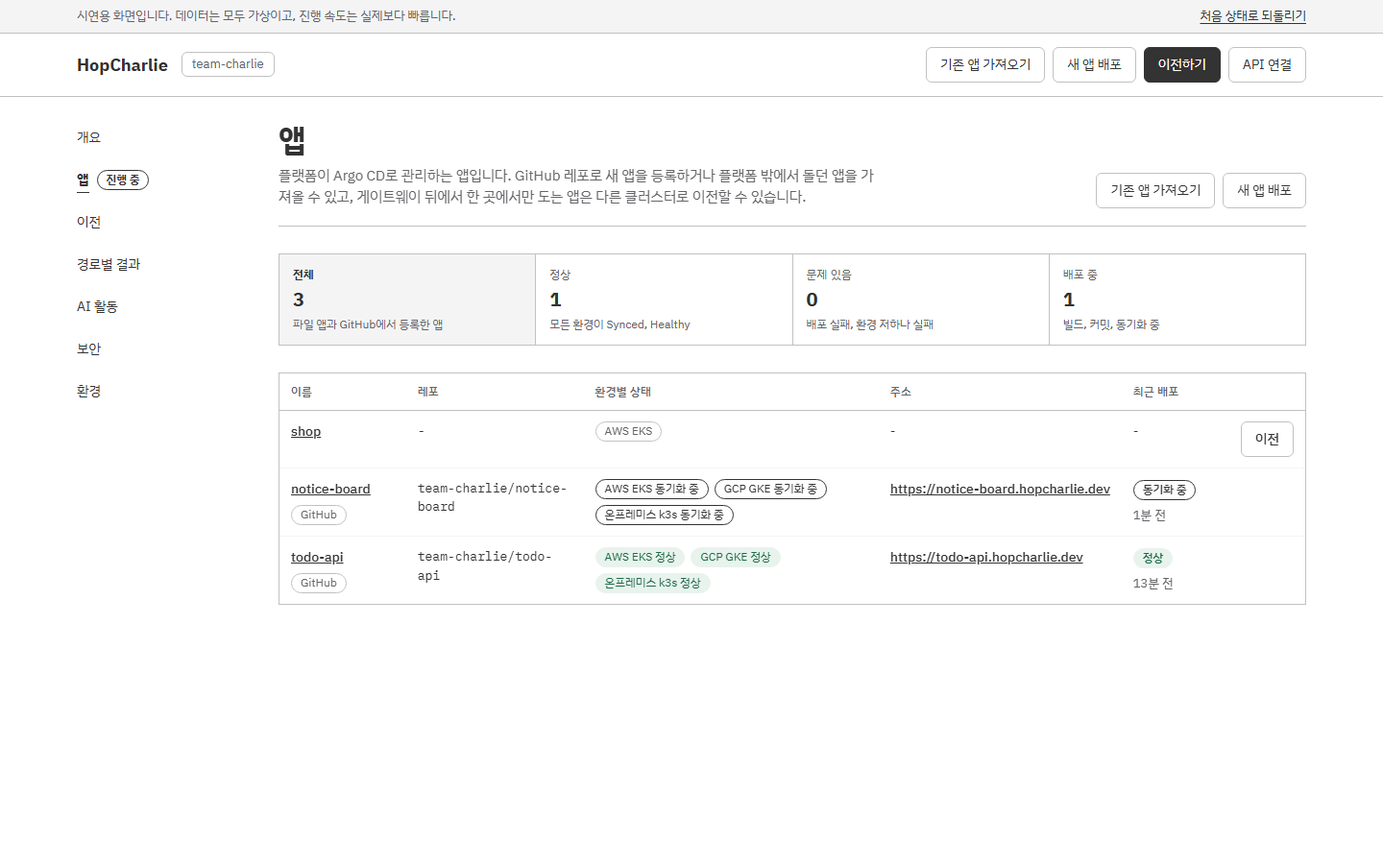
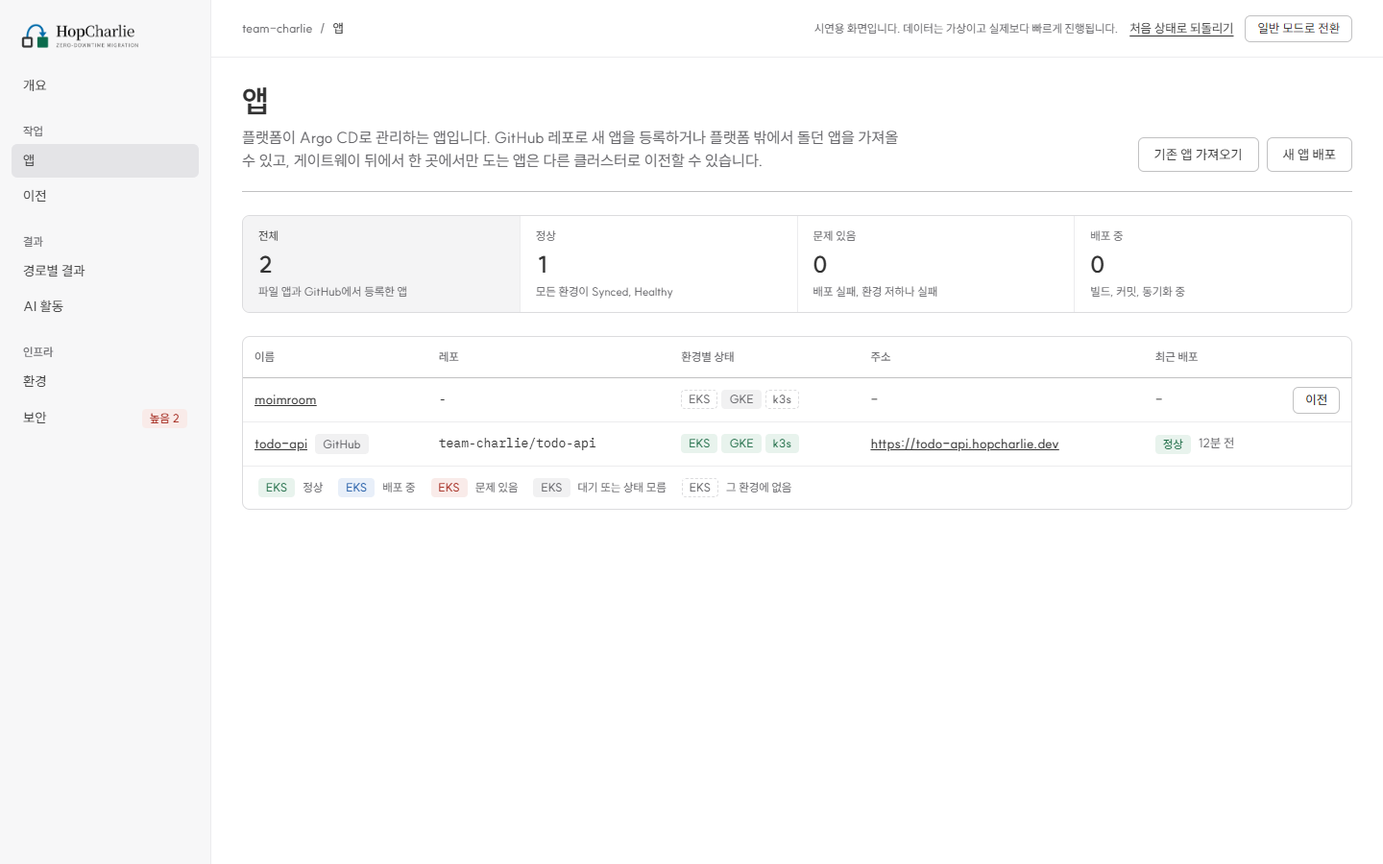
docs: README 화면 설명과 스크린샷을 개편한 콘솔로 갱신
- docs/screenshots의 22장을 지금 화면(데모 모드, 1440px, 전체 페이지)으로 다시 찍었다. app-shop.png는 app-moimroom.png로 이름을 바꿨다.
- README 앱 표가 v5 히스토리 이미지 4장(docs/history/pr6)을 쓰던 자리를 지금 화면으로 찍은 4장(new-app-rule-violation, new-app-no-platform-yaml, deploy-in-progress, apps-problem)으로 바꿨다.
- 화면 설명: 화면 구성(묶음 사이드 메뉴, 메뉴 배지, 위쪽 막대, 상태 색, 화면 너비)을 더하고, 개요의 지금 볼 것과 경로 격자, 이전 화면의 상태 카드와 진행 막대, 끝난 이전의 리포트, 기록 탭, 승인 화면 배치, 앱 상세 탭과 버튼으로 여는 폼을 지금 화면에 맞췄다.
- 맨 위 디자인 줄에 SUIT, IBM Plex Mono와 상태 색 규칙을 적었다.

Claude-Session: https://claude.ai/code/session_014QYzJihMxQwQggRBsrbjFt

diff --git a/README.md b/README.md
@@ -3,7 +3,8 @@
 HopCharlie 운영 콘솔입니다. 처음 열면 모드를 고릅니다. **일반 모드**는 관리자 아이디와 비밀번호로 로그인해 **실제 플랫폼 API**(`src/api`)를 읽고, **데모 모드**는 로그인 없이 **시연용 시뮬레이션**으로 같은 화면을 보여 줍니다. 모드는 화면 위쪽 버튼으로 언제든 바꿀 수 있고, 바꿔도 로그아웃되지 않습니다. 로그인은 새로고침하거나 새 탭을 열어도 세션이 끝날 때(12시간)까지 유지됩니다. `charlie login`이 보여 준 코드는 일반 모드의 **CLI 연결**(`#device`)에서 승인합니다. 시뮬레이션도 플랫폼 계약과 같은 데이터 모양(`PlanRecord`, `Run`, `RunEvent`, `AgentSession`, `AgentEvent`, `App`, `Deployment`, `DeploymentEvent`, `AppSpecValidation`)을 만듭니다.
 
 - 스택: Vite 8 + React 19 + TypeScript, 테스트는 Vitest + Testing Library
-- 디자인: SoftBank 디자인 시스템 토큰 (`src/styles/tokens.css`)
+- 디자인: SoftBank 디자인 시스템 토큰 (`src/styles/tokens.css`). 본문 글꼴은 SUIT, 코드와 ID는 IBM Plex Mono입니다.
+- 상태 색: 파랑(run)은 기계가 일하는 중, 주황(warn)은 사람이 해야 할 일, 회색은 기다림, 초록은 성공, 빨강은 실패입니다.
 
 ```bash
 npm install
@@ -43,20 +44,28 @@ npm run build      # 타입 검사 + 프로덕션 빌드
 ### 모드 선택, 로그인, CLI 연결
 처음 열면 전체 화면으로 모드를 고릅니다.
 
-- **데모 모드**: 가상 데이터로 시연합니다. 로그인하지 않습니다. 상단 배너의 "처음 상태로 되돌리기"로 시뮬레이션을 처음 상태로 돌립니다.
+- **데모 모드**: 가상 데이터로 시연합니다. 로그인하지 않습니다. 위쪽 막대의 "처음 상태로 되돌리기"로 시뮬레이션을 처음 상태로 돌립니다.
 - **일반 모드**: 실제 플랫폼 API를 읽습니다. 로그인 화면에서 관리자 아이디와 비밀번호(플랫폼 서버의 `PLATFORM_ADMINS`)를 넣습니다. 틀린 아이디나 비밀번호, 너무 잦은 시도(기다릴 초를 함께 표시), 관리자가 설정되지 않은 서버, 연결 실패를 각각 한국어로 알려 줍니다. 로그인 화면에서 데모 모드로 바로 갈 수도 있습니다.
-- **헤더**: 일반 모드에서는 로그인한 관리자 이름, "로그아웃", "데모 모드로 전환"이 있고, 데모 모드에서는 "일반 모드로 전환"이 있습니다. 모드를 바꿔도 로그아웃되지 않습니다.
-- **CLI 연결**(`#device`, 일반 모드에서만 메뉴에 보임): 터미널에서 `charlie login`을 실행하면 나오는 코드(XXXX-XXXX, 소문자나 공백을 섞어 넣어도 됨)를 입력하고 "확인"을 누르면 요청한 클라이언트, 요청 시각, 남은 시간이 나옵니다. 승인하기 전에 그 CLI에 줄 역할을 고릅니다. 기본으로 골라 둔 역할은 없고, 고르기 전에는 "승인"을 누를 수 없습니다.
+- **위쪽 막대**: 일반 모드에서는 연결한 API 주소, 로그인한 관리자 이름, "로그아웃", "데모 모드로 전환"이 있고, 데모 모드에서는 시연용 화면이라는 안내, "처음 상태로 되돌리기", "일반 모드로 전환"이 있습니다. 모드를 바꿔도 로그아웃되지 않습니다.
+- **CLI 연결**(`#device`, 일반 모드에서만 사이드 메뉴의 설정 묶음에 보임): 터미널에서 `charlie login`을 실행하면 나오는 코드(XXXX-XXXX, 소문자나 공백을 섞어 넣어도 됨)를 입력하고 "확인"을 누르면 요청한 클라이언트, 요청 시각, 남은 시간이 나옵니다. 승인하기 전에 그 CLI에 줄 역할을 고릅니다. 기본으로 골라 둔 역할은 없고, 고르기 전에는 "승인"을 누를 수 없습니다.
   - 관리자(operator): 배포, 앱 등록과 삭제, Plan 승인까지 모두
   - 조회와 Plan 제출(agent): 승인과 배포는 못 함
   - 조회만(viewer)
 
   봇(Rin 등)에게는 꼭 필요한 역할만 주고, 배포를 맡길 때만 관리자를 고릅니다. "승인"하면 그 CLI가 30일 동안 내 이름과 고른 역할로 동작하고, 결과에 준 역할을 보여 줍니다. "거절"하면 그 CLI 로그인은 끝납니다. 없거나 만료된 코드, 이미 승인하거나 거절한 요청(검토한 사람과, 승인이면 준 역할도 표시), CLI 토큰처럼 비밀번호로 로그인하지 않은 세션은 따로 알려 줍니다. 승인은 콘솔에 비밀번호로 로그인한 세션만 할 수 있어서 CLI 토큰으로 다른 토큰을 만들 수 없습니다. 로그인하지 않은 채 `#device`를 열면 로그인 화면이 먼저 나오고, 로그인하면 일반 모드로 이 화면에 돌아옵니다.
 
+### 화면 구성
+- **사이드 메뉴**: 왼쪽 회색 세로 메뉴입니다. 개요 아래에 작업(앱, 이전), 결과(경로별 결과, AI 활동), 인프라(환경, 보안) 묶음이 있고, 일반 모드에서는 설정(CLI 연결) 묶음이 더해집니다. 새 앱 배포, 기존 앱 가져오기, 앱 상세, 배포 진행은 앱 메뉴 아래 화면입니다.
+- **메뉴 배지**: 데모 모드에서는 메뉴에 지금 상태를 붙입니다. 배포나 가져오기가 진행 중이면 앱에 "진행 중", 이전이 진행 중이면 이전에 그 단계(예: 동기화 중, 전환 승인 대기), 보안에 높음 이상 건수가 나옵니다. 일반 모드는 API 호출을 늘리지 않으려고 배지를 두지 않습니다.
+- **위쪽 막대**: 왼쪽에 지금 위치(`team-charlie / 메뉴 이름`)가 있습니다. 앱 상세, 배포 진행, 이전 화면에서는 메뉴 이름을 눌러 그 메뉴로 돌아갑니다. 오른쪽에는 모드 안내와 계정이 있습니다.
+- **작업 버튼**: 화면 머리에 둡니다. 개요에는 "새 앱 배포"와 "이전하기", 앱 목록에는 "기존 앱 가져오기"와 "새 앱 배포"가 있습니다.
+- **상태 색**: 파랑은 기계가 일하는 중, 주황은 사람이 해야 할 일, 회색은 기다림, 초록은 성공, 빨강은 실패입니다. 칩, 메뉴 배지, 이전 화면의 상태 카드와 진행 막대가 같은 규칙을 따릅니다.
+- **화면 너비**: 900px보다 좁으면 사이드 메뉴가 위쪽 가로 메뉴로 바뀝니다. 넓은 화면에서는 위쪽 막대와 본문을 같은 가운데 열에 맞춥니다.
+
 아래는 데모 모드(시연용 시뮬레이션) 화면입니다. 숫자와 로그는 모두 가상입니다. (1440px 너비, 전체 페이지)
 
 ### 개요
-클러스터 3개의 상태, 6개 경로 결과표, 앱, 최근 활동을 한 화면에서 봅니다.
+맨 위 **지금 볼 것**은 사람을 기다리는 일, 문제, 진행 중인 일, 최근 24시간 안에 끝난 이전을 이 순서로 모으고, 항목마다 그 화면으로 가는 버튼을 둡니다. 그 아래에 클러스터 3개의 상태, 경로별 결과, 최근 활동, 앱 표가 있습니다. 경로별 결과는 원본(행)과 대상(열)의 3×3 격자이고, 일반 모드에서는 진행 중인 run도 그 칸에 보여 줍니다. 결과가 하나도 없으면 격자 대신 한 줄 안내가 나옵니다. 앱 표의 환경별 상태는 EKS, GKE, k3s 칩 3개로 보여 줍니다. 아래 화면은 가져오기와 이전을 한 번 마친 뒤입니다.
 
 ![개요](docs/screenshots/overview.png)
 
@@ -70,17 +79,17 @@ npm run build      # 타입 검사 + 프로덕션 빌드
 | ![샌드박스 테스트](docs/screenshots/onboard-3-sandbox.png) | ![첫 배포](docs/screenshots/onboard-4-done.png) |
 
 ### 이전
-> 아래 스크린샷은 데모 모드의 샘플 앱을 moimroom으로 바꾸기 전에 찍어서 이전 대상이 shop으로 나옵니다.
-
-**설정:** 원본은 앱이 지금 쓰기를 받는 클러스터이고, 옮겨 갈 클러스터를 고릅니다.
+**설정:** 원본은 앱이 지금 쓰기를 받는 클러스터이고, 옮겨 갈 클러스터를 고릅니다. 오른쪽에 진행 순서(AI 계획, 리허설, 승인, 시작 전 검사, 실행)가 있고, 단계별 자세한 설명은 접어 두었습니다. 설정 다음부터는 화면 위에 AI 계획, 리허설, 승인, 실행 네 단계가 표시됩니다.
 
 ![이전 설정](docs/screenshots/migrate-1-setup.png)
 
-**AI 계획 → 리허설 → 승인:** Plan(`PlanRecord`: revision, 원본·대상 엔드포인트, 첨부), AI 세션 3개(계획, 리허설, 진단)의 도구 호출 기록, 막힌 명령, AI 수정안(values diff, Plan 첨부로 올라가며 revision이 오름)을 보고 승인합니다. 승인은 화면에 보이는 revision으로 보냅니다.
+**AI 계획, 리허설, 승인:** 승인 화면은 왼쪽에 **AI가 바꾼 것**(values diff와 revision 변화)과 **확인한 것**(AI 계획, 리허설 결과, 막힌 명령, 시작 전 검사)을 먼저 보여 줍니다. Plan 상세(`PlanRecord`: 원본과 대상 엔드포인트, 첨부, 엔진 Plan 원문)와 AI 세션 기록(계획, 리허설, 진단 세션의 도구 호출)은 접어 두었습니다. AI 수정안은 Plan 첨부로 올라가며 revision이 오릅니다. 오른쪽 **승인 카드**에는 경로, 파일, 실행 방식, 전환, 원복 설명과 "승인하고 시작", "반려"가 있고, 일반 모드에서는 여기서 읽기 카나리 단계, 전환 후 관찰과 자동 롤백을 고릅니다. 승인은 화면에 보이는 revision으로 보냅니다.
 
 ![승인 대기](docs/screenshots/migrate-2-approve.png)
 
-**실행:** 엔진 9단계(사전 확인, 대상 준비, 초기 복사, 변경분 동기화 → 쓰기 보류, 대상 승격, 트래픽 전환 → 검증, 마무리)와 읽기 카나리(기본은 10%→50%→100%를 5초씩, 승인할 때 1%→10%→25%→50%→75%→90%→100%를 10초씩 하는 점진 카나리를 고를 수 있음. 단계마다 게이트, 요청이 모자란 단계는 판단 보류)를 보여 줍니다. 카나리는 플랫폼 게이트웨이(http)를 거치는 Plan에서만 합니다. 데이터가 맞으면 **전환 승인 대기**(`awaiting_switch`)에서 운영자가 전환을 누릅니다. 승인할 때 전환 후 관찰을 켰으면, 전환 뒤에도 정한 시간 동안 대상을 게이트로 판정하고 위반하면 기록하거나 자동 롤백합니다(실제 API 모드).
+**실행:** 맨 위 **상태 카드**에 지금 상태, 다음 행동(전환, 중단, 롤백, 이어서 실행), 핵심 숫자 4개(경과 시간, 실패 요청, 복제 지연, 성공한 쓰기)가 있습니다. 카드의 진행 막대는 동기화, 읽기 카나리, 전환, 검증 네 칸이고, 진행 중인 칸은 파랑, 전환 승인을 기다리는 칸은 주황입니다. 시작이나 롤백이 막히면 그 이유를 상태 카드 바로 아래에 보여 줍니다. 그 아래 **진행 단계**는 엔진 9단계(사전 확인, 대상 준비, 초기 복사, 변경분 동기화, 쓰기 보류, 대상 승격, 트래픽 전환, 검증, 마무리)를 같은 네 묶음으로 나눠 보여 주고, 트래픽(게이트웨이가 읽기와 쓰기를 보내는 곳)과 읽기 카나리 표가 이어집니다. 맨 아래 탭에서 엔진 기록, 시작 전 검사, AI 기록, Plan을 봅니다.
+
+읽기 카나리는 기본이 10%, 50%, 100%를 5초씩이고, 승인할 때 1%, 10%, 25%, 50%, 75%, 90%, 100%를 10초씩 하는 점진 카나리를 고를 수 있습니다. 단계마다 게이트를 확인하고, 요청이 모자란 단계는 판단 보류로 넘어갑니다. 카나리는 플랫폼 게이트웨이(http)를 거치는 Plan에서만 합니다. 데이터가 맞으면 **전환 승인 대기**(`awaiting_switch`)에서 운영자가 전환을 누릅니다. 승인할 때 전환 후 관찰을 켰으면, 전환 뒤에도 정한 시간 동안 대상을 게이트로 판정하고 위반하면 기록하거나 자동 롤백합니다(실제 API 모드).
 
 | 동기화 | 전환 승인 대기 (카나리 통과) |
 | --- | --- |
@@ -88,7 +97,7 @@ npm run build      # 타입 검사 + 프로덕션 빌드
 | **전환 중 (쓰기 보류, 승격)** | **이전 리포트** |
 | ![전환 중](docs/screenshots/migrate-5-cutover.png) | ![이전 리포트](docs/screenshots/migrate-6-report.png) |
 
-리포트는 `RunResult`(전체 시간, 쓰기 보류, 실패 요청, 누락 행·쓰기·파일, 검증)를 보여 주고, 성공한 이전은 **롤백**(1-click, 반대 방향의 새 run)할 수 있습니다.
+이전이 끝나면 상태 카드 바로 아래에 리포트가 옵니다. 리포트는 `RunResult`(전체 시간, 쓰기 보류, 실패 요청, 누락 행, 누락 쓰기, 누락 파일)를 목표와 비교하고, 구간별 시간 막대는 동기화, 읽기 카나리, 전환 승인 대기, 전환(쓰기 보류, 승격, 트래픽 전환), 검증과 마무리에 걸린 시간을 보여 줍니다. 사람이 기다린 시간은 주황입니다. 끝난 이전의 상태 카드에는 진행 막대가 없습니다. 성공한 이전은 상태 카드의 **롤백**(1-click, 반대 방향의 새 run)으로 되돌릴 수 있습니다.
 
 ### 경로별 결과
 EKS, GKE, k3s 사이 6개 방향의 결과표입니다.
@@ -96,7 +105,7 @@ EKS, GKE, k3s 사이 6개 방향의 결과표입니다.
 ![경로별 결과](docs/screenshots/routes.png)
 
 ### AI 활동, 보안
-**AI 활동**(`#agents`)은 에이전트 세션과 이벤트(도구 호출, 결과, 막힌 명령, 결정)를 모읍니다. **보안**(`#security`)은 환경별 보안 점검 결과입니다. 시뮬레이션의 보안 데이터는 `MOCK:` 고정값입니다.
+**AI 활동**(`#agents`)은 에이전트 세션과 이벤트(도구 호출, 결과, 막힌 명령, 결정)를 모읍니다. **보안**(`#security`)은 환경별 보안 점검 결과입니다. 맨 위 환경 × 분류 매트릭스의 칸을 누르면 아래 찾은 항목이 그 칸으로 걸러지고, 심각도 버튼으로도 거를 수 있습니다. 칸 읽는 법은 접어 두었습니다. 시뮬레이션의 보안 데이터는 `MOCK:` 고정값입니다.
 
 | AI 활동 | 보안 |
 | --- | --- |
@@ -106,29 +115,35 @@ EKS, GKE, k3s 사이 6개 방향의 결과표입니다.
 
 GitHub 레포로 앱을 등록하고 배포하는 화면입니다(ADR 0011).
 
-- **새 앱 배포**(`#new`): GitHub App이 볼 수 있는 레포, 브랜치(기본은 레포의 기본 브랜치), 배포 환경, push 자동 배포를 고릅니다. 고르는 대로 platform.yaml을 확인해서, 통과하면 서비스와 포트, 공개 주소(`https://<이름>.hopcharlie.dev`), 리소스를 보여 주고, 아니면 **직접 고쳐야 하는 항목**(위치, 내용, 고칠 방법)을 보여 줍니다. 플랫폼 기본값을 쓰는 항목도 따로 보여 줍니다. 레포에는 서비스마다 Dockerfile, 루트에 platform.yaml이 있어야 합니다.
-- **앱 목록**(`#apps`): 파일 앱(이전 대상)과 GitHub에서 등록한 앱을 함께 보여 줍니다. 등록한 앱에는 GitHub 표시, 환경별 상태, 공개 주소, 최근 배포가 붙습니다. 위의 전체, 정상, 문제 있음, 배포 중 칸을 누르면 그 상태로 거르고, 거른 목록은 주소(`#apps-healthy`, `#apps-problem`, `#apps-deploying`)로 공유할 수 있습니다.
-- **앱 상세**(`#app-<이름>`): 레포와 브랜치, 자동 배포, platform.yaml 요약, 환경별 상태(Argo CD sync와 health, 커밋, 주소), 배포 이력을 보여 줍니다. **다시 배포**는 브랜치의 head를 모든 환경에 배포하고, 인스턴스마다 있는 **재배포 (빌드 없이, 커밋 7자리)**는 그 인스턴스의 마지막 정상 배포를 같은 이미지와 지금 시크릿으로 다시 배포합니다(배포 이력의 트리거는 재배포). 그 인스턴스의 배포가 진행 중이면 끝날 때까지 버튼이 꺼집니다. **앱 삭제**는 화면 안에서 한 번 더 확인한 뒤 지웁니다. 이전 설정이 있는 앱은 이전 버튼이 그대로 있습니다.
-- **앱 상세의 시크릿**(ADR 0019): 앱 공통 시크릿과, 고른 인스턴스가 받는 시크릿(앱 공통에서 받은 것과 덮어쓴 것)을 표로 보여 줍니다. 표에는 이름, 바꾼 때, 바꾼 사람만 있고, 보기를 누른 값만 서버에서 불러와 보여 줍니다. 다시 누르거나 페이지를 떠나거나 60초가 지나면 값을 지웁니다. 추가, 수정, 삭제, 덮어쓰기, 덮어쓰기 지우기는 저장하지 않은 변경으로 모았다가 범위마다 저장 한 번으로 보내고, 취소로 버릴 수 있습니다. 저장한 뒤에는 실행 중인 인스턴스가 이전 값을 쓴다고 알리고 인스턴스별 재배포와 모든 인스턴스 재배포 버튼을 보여 줍니다. operator가 아닌 토큰은 이름만 봅니다. 데모 모드에서는 todo-api의 가짜 시크릿으로 같은 흐름을 보여 줍니다.
-- **배포 진행**(`#deploy-<id>`): 단계(대기열, 이미지 빌드, gitops 커밋, Argo CD 동기화, 그리고 정상, 실패, 대체됨)와 단계 번호(예: 2/4 빌드), 환경별 상태, 실시간 빌드 로그(자동 스크롤, 멈춤 가능), 배포를 만든 때부터 끝날 때까지의 경과 시간(목표 5분)을 보여 줍니다. 성공하면 공개 주소를 누를 수 있고, 실패하면 로그 위에 한 줄 요약을 띄우고 첫 오류 줄로 스크롤해서 표시합니다.
+- **새 앱 배포**(`#new`): GitHub App이 볼 수 있는 레포, 브랜치(기본은 레포의 기본 브랜치), 배포 환경, push 자동 배포를 고릅니다. 고르는 대로 platform.yaml을 확인해서, 통과하면 서비스와 포트, 공개 주소(`https://<이름>.hopcharlie.dev`), 리소스를 보여 주고, 아니면 바로 배포할 수 없다는 안내와 **직접 고쳐야 하는 항목**(위치, 내용, 고칠 방법)을 보여 줍니다. 플랫폼 기본값을 쓰는 항목도 따로 보여 줍니다. 레포에는 서비스마다 Dockerfile, 루트에 platform.yaml이 있어야 합니다.
+- **앱 목록**(`#apps`): 파일 앱(이전 대상)과 GitHub에서 등록한 앱을 함께 보여 줍니다. 등록한 앱에는 GitHub 표시, 공개 주소, 최근 배포가 붙습니다. 환경별 상태는 EKS, GKE, k3s 칩과 그 아래 범례로 보여 주고, 파일 앱은 상태를 몰라서 회색입니다. 위의 전체, 정상, 문제 있음, 배포 중 칸을 누르면 그 상태로 거르고, 거른 목록은 주소(`#apps-healthy`, `#apps-problem`, `#apps-deploying`)로 공유할 수 있습니다.
+- **앱 상세**(`#app-<이름>`): 화면 머리에 레포, 기본 브랜치, 공개 주소와 **기본 브랜치 다시 배포** 버튼, 더 보기 메뉴가 있고, 그 아래 띠에 기본 인스턴스의 환경별 상태(Argo CD sync와 health, 커밋)가 있습니다. 내용은 탭 네 개로 나눴고(`#app-<이름>/instances`, `/secrets`, `/deploys`), 같은 앱 안에서 탭을 바꿔도 스크롤과 입력 중인 내용은 남습니다.
+  - **개요**: 최근 배포, 기본 인스턴스의 platform.yaml 요약, 배포 설정(기본 브랜치, 자동 배포, 공개 주소, 등록), 시크릿 요약
+  - **인스턴스**: 브랜치별 인스턴스 표(브랜치, 주소, 환경별 상태, 최근 배포, 자동 배포, 배포 버튼). 브랜치 추가 폼은 **브랜치 추가**를 눌러야 열립니다.
+  - **시크릿**: 아래 시크릿 설명
+  - **배포 이력**: 배포마다 브랜치, 상태, 트리거, 커밋, 환경, 시작 시각, 걸린 시간
+
+  **기본 브랜치 다시 배포**는 기본 브랜치의 head를 모든 환경에 배포하고, 인스턴스마다 있는 **재배포 (빌드 없이, 커밋 7자리)**는 그 인스턴스의 마지막 정상 배포를 같은 이미지와 지금 시크릿으로 다시 배포합니다(배포 이력의 트리거는 재배포). 그 인스턴스의 배포가 진행 중이면 끝날 때까지 버튼이 꺼집니다. **앱 삭제**는 더 보기 메뉴에 있고, 화면 안에서 한 번 더 확인한 뒤 지웁니다. 파일 앱(이전 대상)은 실행 위치, 리소스, 변경 이력과 이전 버튼을 보여 줍니다.
+- **앱 상세의 시크릿**(ADR 0019): 앱 공통 시크릿과, 고른 인스턴스가 받는 시크릿(앱 공통에서 받은 것과 덮어쓴 것)을 표로 보여 줍니다. 표에는 이름, 바꾼 때, 바꾼 사람만 있고, 보기를 누른 값만 서버에서 불러와 보여 줍니다. 다시 누르거나 페이지를 떠나거나 60초가 지나면 값을 지웁니다. 시크릿 추가와 덮어쓰기 추가 폼은 그 버튼을 눌러야 열립니다. 추가, 수정, 삭제, 덮어쓰기, 덮어쓰기 지우기는 저장하지 않은 변경으로 모았다가 범위마다 저장 한 번으로 보내고, 취소로 버릴 수 있습니다. 저장한 뒤에는 실행 중인 인스턴스가 이전 값을 쓴다고 알리고 인스턴스별 재배포와 모든 인스턴스 재배포 버튼을 보여 줍니다. operator가 아닌 토큰은 이름만 봅니다. 데모 모드에서는 todo-api의 가짜 시크릿으로 같은 흐름을 보여 줍니다.
+- **배포 진행**(`#deploy-<id>`): 단계(대기열, 이미지 빌드, gitops 커밋, Argo CD 동기화, 그리고 정상, 실패, 대체됨)와 단계 번호(예: 2/4 빌드), 환경별 상태, 실시간 빌드 로그(자동 스크롤, 멈춤 가능), 배포를 만든 때부터 끝날 때까지의 경과 시간(목표 5분)을 보여 줍니다. 끝나면 맨 위에 결과 카드가 나옵니다. 성공하면 공개 주소를 누를 수 있고, 실패하면 실패한 단계와 오류를 보여 주며 로그 위에 한 줄 요약을 띄우고 첫 오류 줄로 스크롤해서 표시합니다.
 - 시뮬레이션 레포: `notice-board`(바로 배포 가능, `dev` 브랜치는 빌드 실패), `photo-album`(`main`은 규칙 위반, `fix-worker`는 통과), `analytics-worker`(platform.yaml 없음). `todo-api`는 처음부터 등록되어 있습니다.
 
 | 앱 목록 | 새 앱 배포 |
 | --- | --- |
 | ![앱](docs/screenshots/apps.png) | ![새 앱 배포](docs/screenshots/new-app.png) |
 | **새 앱 배포: 규칙 위반 (photo-album)** | **새 앱 배포: platform.yaml 없음 (analytics-worker)** |
-| ![규칙 위반](docs/history/pr6/04-new-app-2-rule-violation.png) | ![platform.yaml 없음](docs/history/pr6/05-new-app-3-no-platform-yaml.png) |
+| ![규칙 위반](docs/screenshots/new-app-rule-violation.png) | ![platform.yaml 없음](docs/screenshots/new-app-no-platform-yaml.png) |
 | **배포 진행 (진행 중, 2/4 빌드)** | **앱 목록: 문제 있음 필터** |
-| ![배포 진행 중](docs/history/pr6/06-deploy-1-in-progress.png) | ![문제 있음](docs/history/pr6/10-apps-filter-problem.png) |
-| **앱 상세 (todo-api, GitHub에서 등록)** | **앱 상세 (이전 대상, 샘플 앱을 moimroom으로 바꾸기 전 화면)** |
-| ![todo-api](docs/screenshots/app-todo-api.png) | ![shop](docs/screenshots/app-shop.png) |
-| **배포 진행 (완료)** | **배포 진행 (빌드 실패)** |
+| ![배포 진행 중](docs/screenshots/deploy-in-progress.png) | ![문제 있음](docs/screenshots/apps-problem.png) |
+| **앱 상세 (todo-api, GitHub에서 등록, 개요 탭)** | **앱 상세 (이전 대상 moimroom, GKE로 이전한 뒤)** |
+| ![todo-api](docs/screenshots/app-todo-api.png) | ![moimroom](docs/screenshots/app-moimroom.png) |
+| **배포 진행 (완료)** | **배포 진행 (빌드 실패, `dev` 브랜치)** |
 | ![배포 완료](docs/screenshots/deploy.png) | ![빌드 실패](docs/screenshots/deploy-failed.png) |
 | **환경** | |
 | ![환경](docs/screenshots/envs.png) | |
 
 ### 디자인 시스템 (`#design-system`)
-메뉴에는 없는 화면입니다. 주소창에 `#design-system`을 붙여서 엽니다. 색(대비 포함), 글꼴, 간격과 모서리, 상태 표현, 컴포넌트, 움직임을 화면과 같은 토큰과 클래스로 보여줍니다.
+메뉴에는 없는 화면입니다. 주소창에 `#design-system`을 붙여서 엽니다. 원칙, 로고, 색(대비 포함), 글꼴, 간격과 모서리, 상태 표현, 컴포넌트, 움직임을 화면과 같은 토큰과 클래스로 보여줍니다.
 
 ![디자인 시스템](docs/screenshots/design-system.png)
 
@@ -139,9 +154,9 @@ GitHub 레포로 앱을 등록하고 배포하는 화면입니다(ADR 0011).
 ## 실제 API에 연결하기
 
 1. 프로젝트 루트에 `.env.local`을 만들고 `VITE_PLATFORM_URL=<플랫폼 주소>`를 적은 뒤 `npm run dev`를 다시 시작합니다 (자세한 내용은 `src/api/README.md`).
-2. 처음 화면에서 **일반 모드**를 고르거나, 데모 모드 헤더의 **일반 모드로 전환**을 누릅니다.
+2. 처음 화면에서 **일반 모드**를 고르거나, 데모 모드 위쪽 막대의 **일반 모드로 전환**을 누릅니다.
 3. 로그인 화면에서 관리자 아이디와 비밀번호를 넣습니다. 관리자 세션의 역할은 operator라서 승인, 시작, 전환, 중단, 롤백, 앱 등록, 다시 배포, 앱 삭제를 모두 할 수 있습니다.
-4. 로그인하면 상단 배너가 바뀌고 개요, 앱, 새 앱 배포, 배포 진행, 이전, 경로별 결과, AI 활동, 보안, 환경, CLI 연결 화면이 API를 읽습니다. 기존 앱 가져오기는 아직 시연 화면입니다.
+4. 로그인하면 위쪽 막대의 안내가 바뀌고 개요, 앱, 새 앱 배포, 배포 진행, 이전, 경로별 결과, AI 활동, 보안, 환경, CLI 연결 화면이 API를 읽습니다. 기존 앱 가져오기는 아직 시연 화면입니다.
 
 로그인 세션(토큰, 만료 시각, 관리자 이름)은 localStorage `hopcharlie.session`에, 고른 모드는 `hopcharlie.mode`에 둡니다. 새로고침하거나 새 탭을 열어도 세션이 끝날 때(12시간)까지 로그인이 유지되고, 한 탭에서 로그인하거나 로그아웃하면 다른 탭도 따라갑니다. 모드는 탭마다 따로입니다. 세션이 만료되거나 서버가 401로 답하면 "세션이 만료되었습니다. 다시 로그인하세요"와 함께 로그인 화면으로 돌아갑니다. 로그아웃은 서버에서 세션을 끝내고(`POST /v1/auth/logout`), 서버에 닿지 않아도 이 브라우저에서는 바로 로그아웃합니다. 화면과 로그에는 토큰을 보여 주지 않습니다.
 
